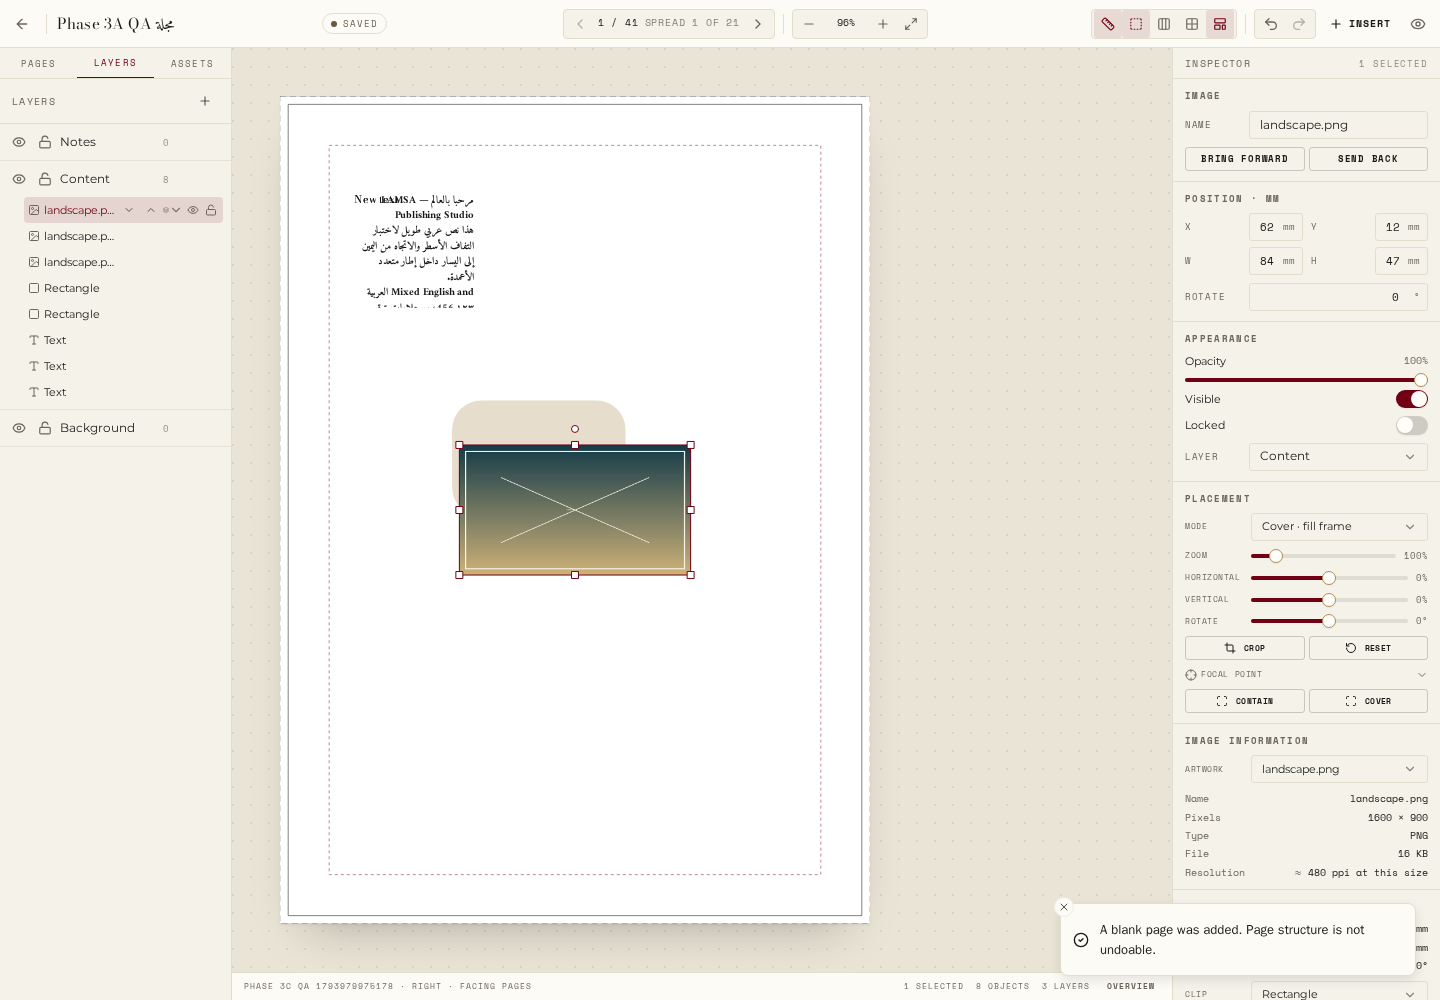
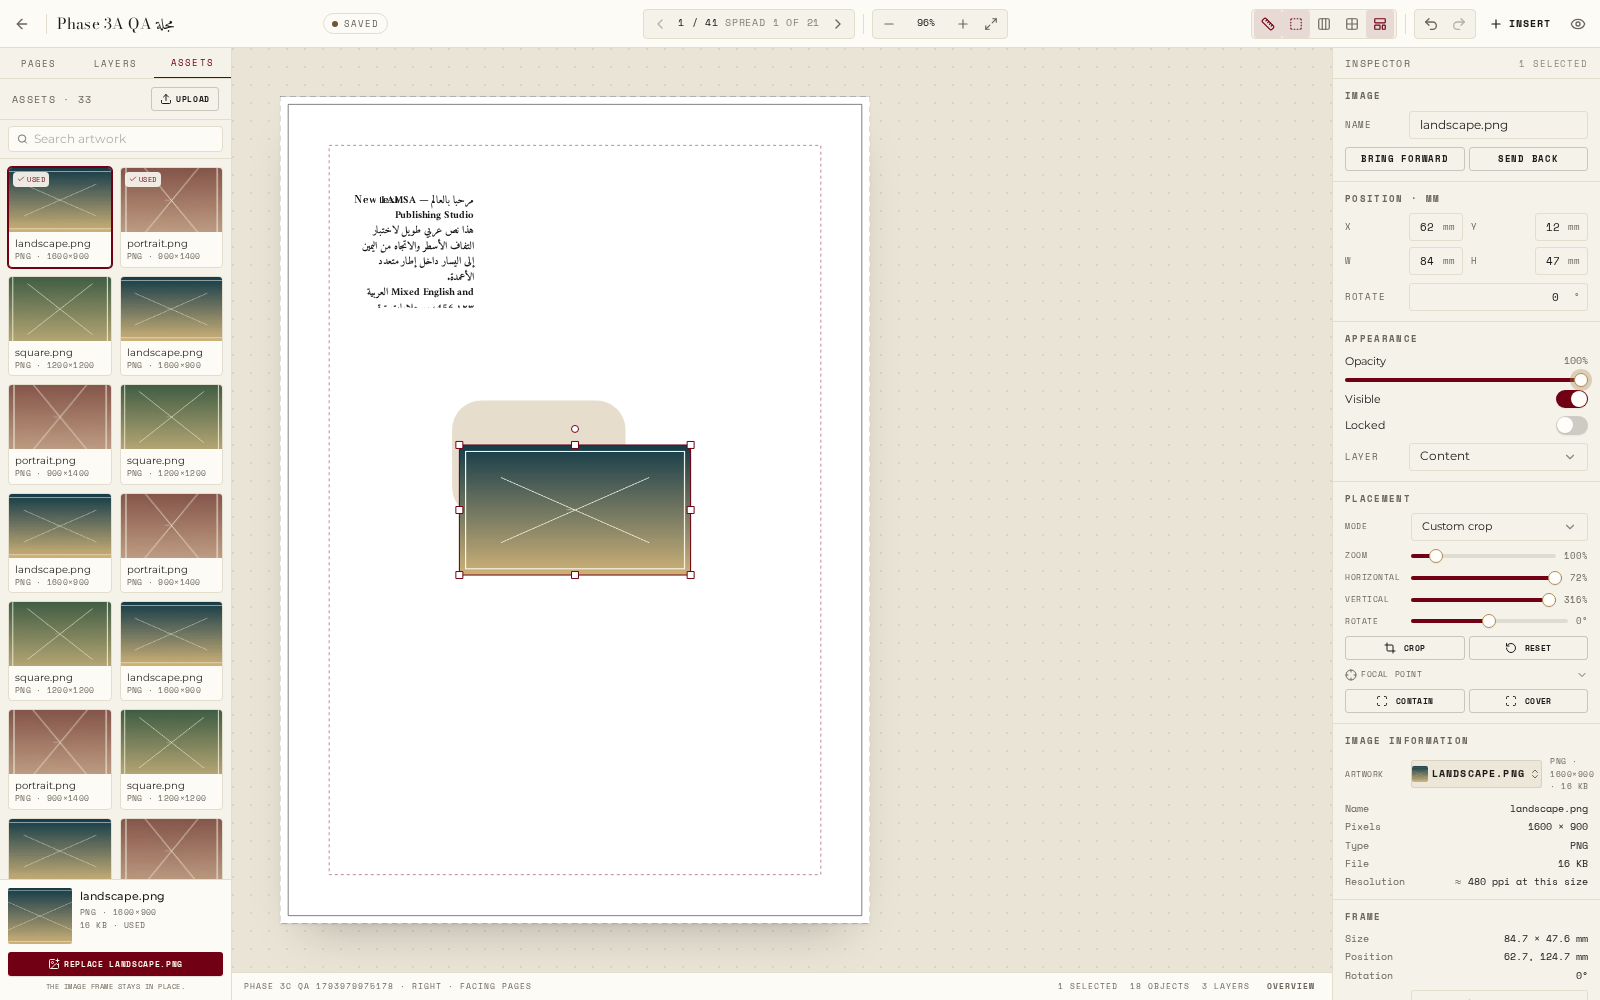
Freebuff: LAMSA Publishing Studio — Phase 3C: Image Management & Cr...

diff --git a/src/components/publishing/Inspector.tsx b/src/components/publishing/Inspector.tsx
@@ -28,17 +28,12 @@ import {
   SelectTrigger,
   SelectValue,
 } from "@/components/ui/select";
-import { Separator } from "@/components/ui/separator";
-import { cn } from "@/lib/utils";
 import {
   TypographyPanel,
   type TextSelection,
   type TypographyEditor,
 } from "./TypographyPanel";
 import { ImagePanel } from "./ImagePanel";
-import { ChevronsUpDown } from "lucide-react";
-import { assetMimeLabel } from "./AssetsPanel";
-import { ImageOff } from "lucide-react";
 
 /**
  * The inspector. Selection first, then page.
@@ -49,7 +44,6 @@ import { ImageOff } from "lucide-react";
  * a magazine job reads in millimetres and a book in inches without the model
  * ever storing anything but points.
  */
-
 export interface InspectorProps {
   document: PublicationDocument;
   page: PublicationPage;
@@ -77,7 +71,6 @@ export interface InspectorProps {
   ) => void;
   onEnterImageCrop: (objectId: string) => void;
   onResetImageCrop: (objectId: string) => void;
-  onOpenAssets?: () => void;
 }
 
 function Section({ title, children }: { title: string; children: ReactNode }) {
@@ -193,7 +186,7 @@ export function Inspector(props: InspectorProps) {
     onChangeImagePlacement,
     onEnterImageCrop,
     onResetImageCrop,
-    onOpenAssets,
+    onOpenAssetsPanel,
   } = props;
 
   const selected = useMemo(() => {
@@ -467,6 +460,7 @@ export function Inspector(props: InspectorProps) {
                 onChangePlacement={(change) => onChangeImagePlacement(single.id, change)}
                 onEnterCrop={() => onEnterImageCrop(single.id)}
                 onResetCrop={() => onResetImageCrop(single.id)}
+                onOpenAssets={onOpenAssetsPanel}
               />
             ) : null}
 
@@ -541,10 +535,15 @@ export function Inspector(props: InspectorProps) {
                 <FieldRow label="Stroke">
                   <input
                     type="color"
-                    aria-label="Line colour"
+                    aria-label="Line stroke"
                     value={single.stroke}
                     onChange={(event) => onPatchObject(single.id, { stroke: event.target.value })}
                     className="h-7 w-8 cursor-pointer rounded-[3px] border border-[var(--rule)] bg-[var(--paper)] p-0.5"
+                  />
+                  <Input
+                    value={single.stroke}
+                    onChange={(event) => onPatchObject(single.id, { stroke: event.target.value })}
+                    className="h-7 flex-1 rounded-[3px] border-[var(--rule)] bg-[var(--paper)] font-meta text-[0.7rem] uppercase shadow-none"
                   />
                 </FieldRow>
                 <NumberField
@@ -554,61 +553,47 @@ export function Inspector(props: InspectorProps) {
                   min={0}
                   onCommit={(value) => onPatchObject(single.id, { strokeWidth: value })}
                 />
+                <FieldRow label="Cap">
+                  <Select
+                    value={single.cap}
+                    onValueChange={(value) =>
+                      onPatchObject(single.id, { cap: value as "butt" | "round" | "square" })
+                    }
+                  >
+                    <SelectTrigger className="h-7 flex-1 rounded-[3px] border-[var(--rule)] bg-[var(--paper)] text-[0.72rem] shadow-none">
+                      <SelectValue />
+                    </SelectTrigger>
+                    <SelectContent>
+                      <SelectItem value="butt">Butt</SelectItem>
+                      <SelectItem value="round">Round</SelectItem>
+                      <SelectItem value="square">Square</SelectItem>
+                    </SelectContent>
+                  </Select>
+                </FieldRow>
               </Section>
             ) : null}
 
-            {single.kind === "generic" ? (
-              <Section title="Unknown object">
-                <p className="text-[0.7rem] leading-5 text-[var(--ink-soft)]">
-                  “{single.originalKind}” came from a newer build. It is drawn as a placeholder and
-                  preserved byte-for-byte; editing its internals is not supported here.
-                </p>
-              </Section>
-            ) : null}
-
-            <div className="px-3 py-2.5">
+            <Section title="Object">
+              <dl className="grid grid-cols-[auto_1fr] gap-x-3 gap-y-1 font-meta text-[0.6rem] tabular-nums">
+                <dt className="text-[var(--ink-soft)]">Kind</dt>
+                <dd className="text-right">{objectKindLabel(single)}</dd>
+                <dt className="text-[var(--ink-soft)]">Rotation</dt>
+                <dd className="text-right">{Math.round(single.frame.rotation)}°</dd>
+              </dl>
               <Button
                 variant="outline"
                 size="sm"
-                className={cn(
-                  "h-7 w-full rounded-[3px] border-[color-mix(in_oklab,var(--red)_45%,transparent)] font-meta text-[0.55rem] uppercase tracking-[0.1em] text-[var(--red)]",
-                  "hover:bg-[color-mix(in_oklab,var(--red)_8%,transparent)]",
-                )}
+                className="h-6 w-full rounded-[3px] font-meta text-[0.52rem] uppercase tracking-[0.08em] text-[var(--red)]"
                 onClick={onDeleteSelected}
               >
-                Delete selection
+                Delete object
               </Button>
-            </div>
-          </>
-        ) : null}
-
-        {selected.length > 1 ? (
-          <>
-            <Section title={`${selected.length} objects`}>
-              <p className="text-[0.7rem] leading-5 text-[var(--ink-soft)]">
-                Move the group on the canvas, or hold Alt with an arrow key to move one point at a
-                time. Mixed values are edited one object at a time.
-              </p>
             </Section>
-            <div className="px-3 py-2.5">
-              <Button
-                variant="outline"
-                size="sm"
-                className="h-7 w-full rounded-[3px] border-[color-mix(in_oklab,var(--red)_45%,transparent)] font-meta text-[0.55rem] uppercase tracking-[0.1em] text-[var(--red)] hover:bg-[color-mix(in_oklab,var(--red)_8%,transparent)]"
-                onClick={onDeleteSelected}
-              >
-                Delete {selected.length} objects
-              </Button>
-            </div>
           </>
         ) : null}
-
-        <Separator className="mx-3 my-1 w-auto" />
-        <p className="px-3 font-meta text-[0.52rem] leading-4 tracking-[0.06em] text-[color-mix(in_oklab,var(--ink-soft)_70%,transparent)]">
-          Units follow the document · {unitLabel}
-        </p>
       </div>
     </div>
   );
 }
 
+ 

diff --git a/src/components/publishing/ImagePanel.tsx b/src/components/publishing/ImagePanel.tsx
@@ -57,6 +57,7 @@ export interface ImagePanelProps {
   }) => void;
   onEnterCrop: () => void;
   onResetCrop: () => void;
+  onOpenAssets: () => void;
 }
 
 function Section({ title, children }: { title: string; children: ReactNode }) {
@@ -99,6 +100,7 @@ export function ImagePanel({
   onChangePlacement,
   onEnterCrop,
   onResetCrop,
+  onOpenAssets,
 }: ImagePanelProps) {
   const [focalOpen, setFocalOpen] = useState(false);
   const asset = assets.find((entry) => entry.assetId === object.assetId);
@@ -320,12 +322,12 @@ export function ImagePanel({
             variant="secondary"
             size="sm"
             className="h-7 flex-1 gap-1 rounded-[3px] text-left font-meta text-[0.62rem]"
-            onClick={onOpenAssets}
+            onClick={() => onOpenAssets()}
           >
             {object.assetId ? (
               <>
                 <img
-                  src={asset?.proxyUrl ?? asset?.thumbnailUrl ?? asset?.originalUrl}
+                  src={asset?.proxyUrl ?? asset?.thumbnailUrl ?? asset?.originalUrl ?? ""}
                   alt=""
                   className="size-4 rounded-[2px] object-cover"
                 />

diff --git a/src/pages/publishing/PublishingEditor.tsx b/src/pages/publishing/PublishingEditor.tsx
@@ -300,10 +300,6 @@ function EditorWorkspace({
         setPanel("assets");
         setMobilePanel("assets");
       }}
-      onOpenAssets={() => {
-        setPanel("assets");
-        setMobilePanel("assets");
-      }}
       imageCropDraft={
         activeImageCrop && activeImageCrop.objectId === selectedImageFrame?.id
           ? activeImageCrop.draft
